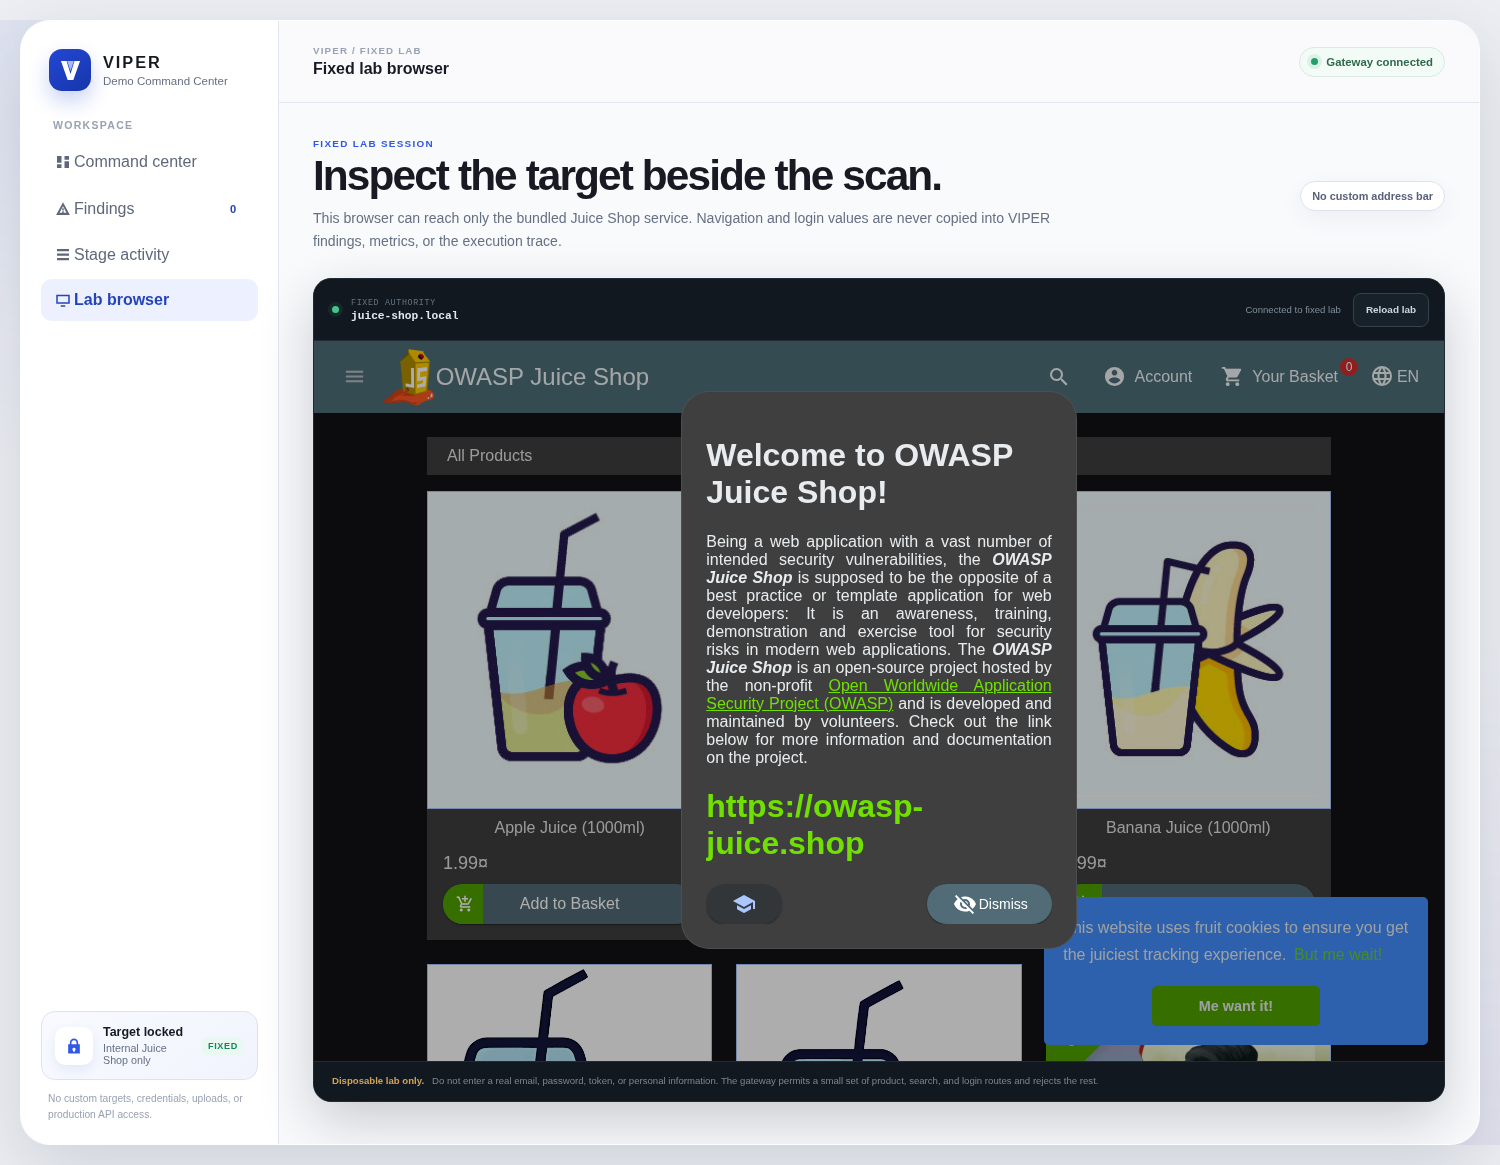
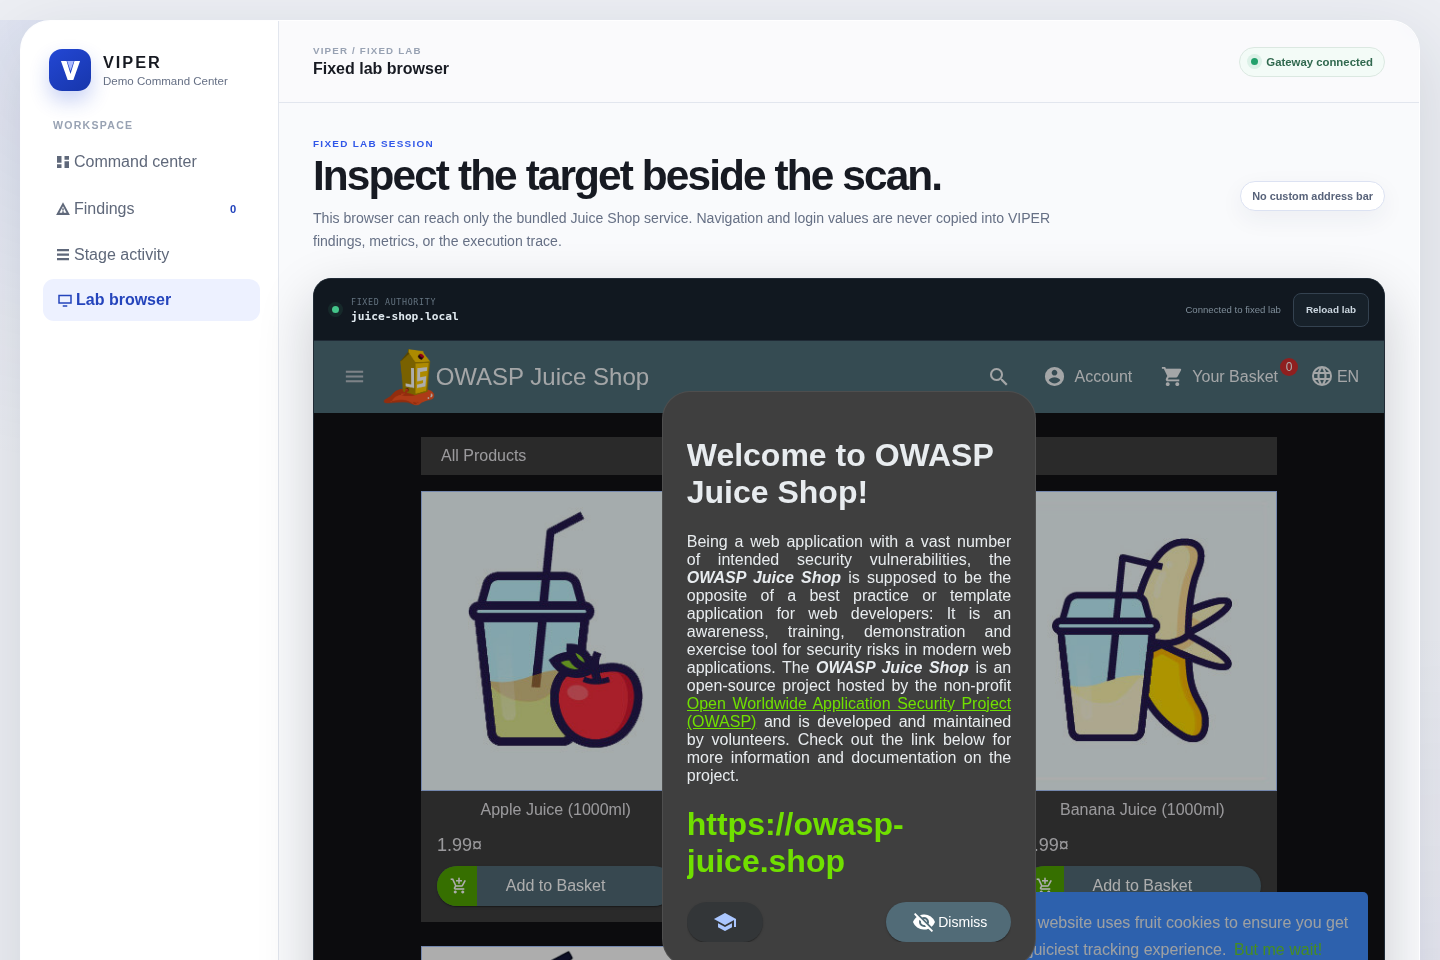
Futuristic README overhaul: real demo GIF, screenshots, mermaid architecture graph

diff --git a/README.md b/README.md
@@ -1,17 +1,34 @@
 <div align="center">
-  <img src="assets/viper-mark.svg" width="82" alt="VIPER mark">
-  <h1>VIPER: Cybersecurity Analyst</h1>
-  <p><strong>Faster application-security work without trading away evidence, privacy, or control.</strong></p>
-  <p>
-    <a href="{{VIPER_DEMO_URL}}"><strong>Try the fixed-lab demo</strong></a>
-    &nbsp;·&nbsp;
-    <a href="#how-viper-works">Architecture</a>
-    &nbsp;·&nbsp;
-    <a href="#the-viper-standard">Engineering standard</a>
-  </p>
+
+<img src="assets/viper-mark.svg" width="88" alt="VIPER mark">
+
+# VIPER
+### Cybersecurity Analyst — built for OpenAI Build Week
+
+**Faster application-security work without trading away evidence, privacy, or control.**
+
+[![OpenAI Build Week](https://img.shields.io/badge/OpenAI-Build%20Week%202026-10a37f?style=for-the-badge&logo=openai&logoColor=white)](https://openai.devpost.com)
+[![Built with Codex](https://img.shields.io/badge/Built%20with-Codex%20%2B%20GPT--5.6-412991?style=for-the-badge)](https://openai.devpost.com)
+[![Status](https://img.shields.io/badge/status-live%20demo-22c55e?style=for-the-badge)](#try-it-without-receiving-the-private-scanner)
+[![License: view only](https://img.shields.io/badge/private%20source-judges%20only-ef4444?style=for-the-badge)](#)
+
+<a href="{{VIPER_DEMO_URL}}"><strong>▶ Try the fixed-lab demo</strong></a>
+&nbsp;·&nbsp;
+<a href="#how-viper-works">Architecture</a>
+&nbsp;·&nbsp;
+<a href="#the-viper-standard">Engineering standard</a>
+&nbsp;·&nbsp;
+<a href="#gallery">Gallery</a>
+
 </div>
 
-![VIPER command center showing a completed bounded scan and sanitized execution trace](assets/dashboard-overview.png)
+<br>
+
+<div align="center">
+  <img src="assets/demo-flow.gif" width="820" alt="VIPER demo command center: capturing attacker and victim sessions, running a bounded scan, and watching it complete with a live execution trace">
+</div>
+
+<br>
 
 ## Why I built it
 
@@ -23,26 +40,63 @@ That problem is becoming more urgent as companies build faster with AI. Orca Sec
 
 VIPER brings discovery, workflow analysis, bounded testing, evidence, and reporting into one control plane. Instead of treating an application as a pile of unrelated URLs, it models observed operations and the relationships between them.
 
-- Fixed scope and authorization are checked before target work.
-- Temporary values stay attached to the correct user, operation, occurrence, and request location.
-- Cancellation, privacy, and verifier uncertainty fail closed.
-- Public output is projected through a narrow, sanitized contract.
-- Metrics describe work that actually happened; skipped or failed work is not counted as success.
+| | |
+|---|---|
+| 🔒 **Fixed scope, verified first** | Authorization is checked before any target work begins. |
+| 🎭 **Real attacker/victim sessions** | The demo captures two distinct authenticated identities server-side — not a fake toggle. |
+| 🧵 **Evidence stays attached** | Temporary values stay bound to the correct user, operation, occurrence, and request location. |
+| 🛑 **Fails closed** | Cancellation, privacy, and verifier uncertainty all fail closed by default. |
+| 🪟 **Narrow public projection** | Public output is a sanitized, allowlisted contract — never raw scanner state. |
+| 📊 **Honest metrics** | Metrics describe work that actually happened; skipped or failed work is never counted as success. |
 
 ## Try it without receiving the private scanner
 
-The public demo runs against one bundled OWASP Juice Shop instance. Visitors can inspect the real lab in VIPER's embedded browser and run a passive, bounded scan profile. There is no custom target field, credential upload, arbitrary proxy, production API, or access to private scanner logs.
+The public demo runs against one bundled OWASP Juice Shop instance, inside its own contained gateway.
 
-The lab browser exposes only a small route allowlist for static assets, product/search reads, and login. It cannot be redirected to another host.
+- A real embedded browser lets you inspect the target lab directly — signup, login, browsing all work against the real application.
+- Explicit **Capture Attacker Session** / **Capture Victim Session** controls perform real server-side authentication before the scan unlocks — no one-click theater.
+- Multiple visitors are session-isolated: your captured identities are yours alone, and if someone else's scan is running you get a live, honest "in progress" status instead of a confusing error.
+- There is no custom target field, credential upload, arbitrary proxy, production API, or access to private scanner logs.
 
+<a id="gallery"></a>
+## Gallery
+
+<table>
+<tr>
+<td width="50%"><img src="assets/dashboard-overview.png" alt="Command center after a completed bounded scan"></td>
+<td width="50%"><img src="assets/lab-browser.png" alt="Embedded browser inspecting the real bundled Juice Shop lab"></td>
+</tr>
+<tr>
+<td align="center"><sub>Command center — completed scan, live metrics, sanitized execution trace</sub></td>
+<td align="center"><sub>Fixed lab browser — the real target, no arbitrary navigation</sub></td>
+</tr>
+</table>
+
+<div align="center">
+  <img src="assets/mobile-overview.png" width="280" alt="VIPER demo command center on a mobile viewport">
+  <br><sub>Fully responsive — same live state, phone or desktop</sub>
+</div>
+
+<a id="how-viper-works"></a>
 ## How VIPER works
 
-![VIPER architecture: fixed authorization enters a bounded control plane, producers normalize operations, evidence is verified, and only a sanitized projection reaches the public dashboard](assets/architecture.svg)
+```mermaid
+flowchart LR
+    V["Visitor"] -->|"fixed scope only"| GW["Narrow VIPER Gateway"]
+    GW -->|"allowlisted routes"| LAB["Bundled OWASP Juice Shop"]
+    GW -->|"start / cancel / capture"| RT["Demo Runtime<br/>(session-isolated)"]
+    RT -->|"bounded stage plan"| SC["VIPER Scan Controller"]
+    SC --> ST1["rate_limit"] --> ST2["recon"] --> ST3["correlation"] --> ST4["chain_detection"]
+    ST4 --> VER["Verifier / Evidence"]
+    VER -->|"sanitized projection only"| PUB["Public Findings"]
+    PUB --> V
+```
 
-The Build Week work focused on the foundation beneath this flow: a canonical operation contract and authorization-aware binding between workflow steps. Codex and GPT-5.6 helped trace callers, challenge assumptions, write adversarial regressions, and review analogous consumers. Important changes still had to pass focused, adjacent, static, container, and browser checks.
+The Build Week work focused on the foundation beneath this flow: a canonical operation contract, real session capture, and per-visitor isolation between workflow steps. Codex and GPT-5.6 helped trace callers, challenge assumptions, write adversarial regressions, capture real network traffic to diagnose broken routes, and review analogous consumers. Important changes still had to pass focused, adjacent, static, container, and browser checks before shipping.
 
 VIPER does **not** currently ship AI inside the scanner. AI assisted development during Build Week; privacy-safe product assistance remains future work.
 
+<a id="the-viper-standard"></a>
 ## The VIPER Standard
 
 **Proof before confidence. Quality before coverage. Strong foundations before more features.**
@@ -57,4 +111,12 @@ VIPER is a long-term project. I believe it can become a dependable cybersecurity
 
 ---
 
+<div align="center">
 <sub>Only test systems you own or are explicitly authorized to assess. The public demo is intentionally locked to its bundled training lab.</sub>
+<br><br>
+
+[![Made with Python](https://img.shields.io/badge/Python-3.13-3776AB?style=flat-square&logo=python&logoColor=white)](#)
+[![Docker](https://img.shields.io/badge/Docker-ready-2496ED?style=flat-square&logo=docker&logoColor=white)](#)
+[![GitHub Codespaces](https://img.shields.io/badge/Runs%20on-GitHub%20Codespaces-181717?style=flat-square&logo=github&logoColor=white)](#)
+
+</div>